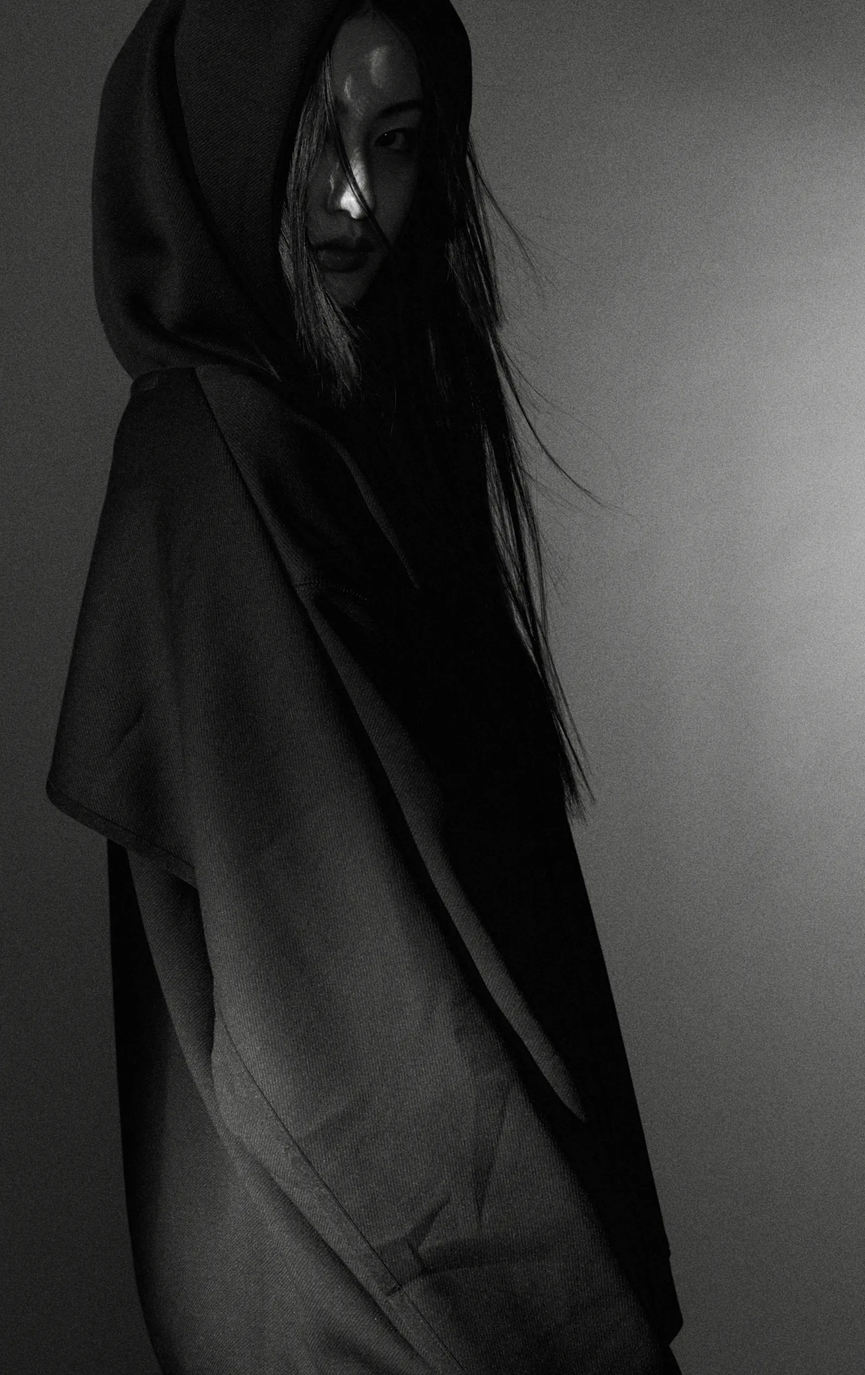
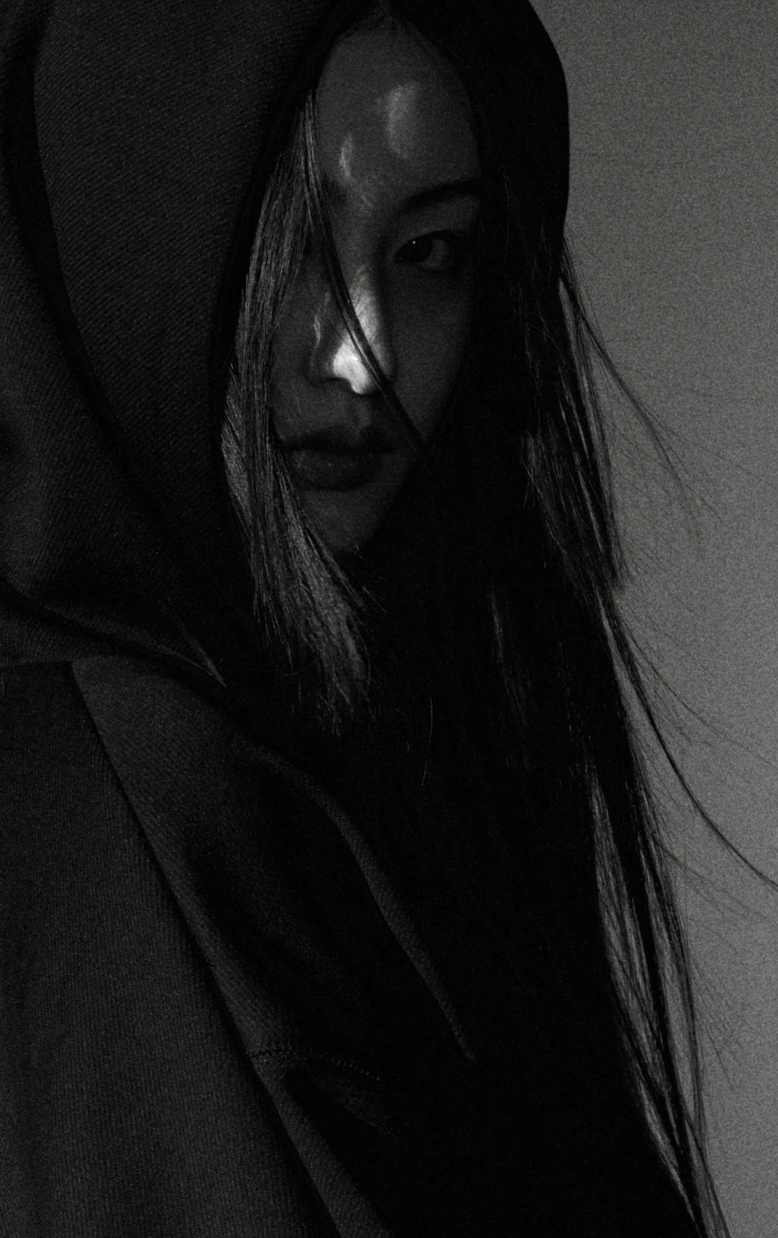
Key visual: tighter, face-led portrait crops for shots 3 and 5

diff --git a/jp/index.html b/jp/index.html
@@ -45,7 +45,7 @@
   <link rel="stylesheet" href="https://cdn.jsdelivr.net/gh/orioncactus/pretendard@v1.3.9/dist/web/static/pretendard.min.css" />
   <link rel="stylesheet" href="https://fonts.googleapis.com/css2?family=Noto+Sans+JP:wght@400&display=swap" />
   <link rel="stylesheet" href="https://cdn.jsdelivr.net/gh/orioncactus/pretendard@v1.3.9/dist/web/static/pretendard-jp.min.css" />
-  <link rel="stylesheet" href="../style.css?v=20261124134933" />
+  <link rel="stylesheet" href="../style.css?v=20261124135129" />
   <script type="importmap">{ "imports": { "three": "https://unpkg.com/three@0.160.0/build/three.module.min.js" } }</script>
   <script>
     // The intro plays until it has been seen through once in this browsing
@@ -133,9 +133,9 @@
         <div class="kv__slides" aria-hidden="true">
           <picture><source media="(max-aspect-ratio: 1/1)" srcset="../img/kv-slide-1-v@1x.webp 900w, ../img/kv-slide-1-v@2x.webp 1600w" sizes="100vw" /><img src="../img/kv-slide-1@2x.webp" srcset="../img/kv-slide-1@1x.webp 1440w, ../img/kv-slide-1@2x.webp 2400w" sizes="100vw" width="2400" height="1650" alt="" class="kv__slide" style="--x:55%" fetchpriority="high" /></picture>
           <picture><source media="(max-aspect-ratio: 1/1)" data-srcset="../img/kv-slide-2-v@1x.webp 900w, ../img/kv-slide-2-v@2x.webp 1600w" sizes="100vw" /><img data-src="../img/kv-slide-2@2x.webp" data-srcset="../img/kv-slide-2@1x.webp 1440w, ../img/kv-slide-2@2x.webp 2400w" sizes="100vw" width="2400" height="1650" alt="" class="kv__slide" style="--x:62%" /></picture>
-          <picture><source media="(max-aspect-ratio: 1/1)" data-srcset="../img/kv-slide-3-v@1x.webp 900w, ../img/kv-slide-3-v@2x.webp 1600w" sizes="100vw" /><img data-src="../img/kv-slide-3@2x.webp" data-srcset="../img/kv-slide-3@1x.webp 1440w, ../img/kv-slide-3@2x.webp 2400w" sizes="100vw" width="2400" height="1650" alt="" class="kv__slide" style="--x:40%" /></picture>
+          <picture><source media="(max-aspect-ratio: 1/1)" data-srcset="../img/kv-slide-3-v@1x.webp 900w, ../img/kv-slide-3-v@2x.webp 1440w" sizes="100vw" /><img data-src="../img/kv-slide-3@2x.webp" data-srcset="../img/kv-slide-3@1x.webp 1440w, ../img/kv-slide-3@2x.webp 2400w" sizes="100vw" width="2400" height="1650" alt="" class="kv__slide" style="--x:40%" /></picture>
           <picture><source media="(max-aspect-ratio: 1/1)" data-srcset="../img/kv-slide-4-v@1x.webp 900w, ../img/kv-slide-4-v@2x.webp 1600w" sizes="100vw" /><img data-src="../img/kv-slide-4@2x.webp" data-srcset="../img/kv-slide-4@1x.webp 1440w, ../img/kv-slide-4@2x.webp 2400w" sizes="100vw" width="2400" height="1620" alt="" class="kv__slide" style="--x:50%;--y:0%;--vy:0%;--o:50% 0%" /></picture>
-          <picture><source media="(max-aspect-ratio: 1/1)" data-srcset="../img/kv-slide-5-v@1x.webp 900w, ../img/kv-slide-5-v@2x.webp 1600w" sizes="100vw" /><img data-src="../img/kv-slide-5@2x.webp" data-srcset="../img/kv-slide-5@1x.webp 1440w, ../img/kv-slide-5@2x.webp 2400w" sizes="100vw" width="2400" height="1650" alt="" class="kv__slide" style="--x:55%" /></picture>
+          <picture><source media="(max-aspect-ratio: 1/1)" data-srcset="../img/kv-slide-5-v@1x.webp 900w, ../img/kv-slide-5-v@2x.webp 1440w" sizes="100vw" /><img data-src="../img/kv-slide-5@2x.webp" data-srcset="../img/kv-slide-5@1x.webp 1440w, ../img/kv-slide-5@2x.webp 2400w" sizes="100vw" width="2400" height="1650" alt="" class="kv__slide" style="--x:55%" /></picture>
         </div>
       </div>
       <div class="kv__text">
@@ -315,7 +315,7 @@
   </main>
 
   <script src="https://cdn.jsdelivr.net/npm/lenis@1.3.26/dist/lenis.min.js"></script>
-  <script src="../main.js?v=20261124134933"></script>
-  <script type="module" src="../intro/intro.js?v=20261124134933" onerror="window.aansSkipIntro && window.aansSkipIntro()"></script>
+  <script src="../main.js?v=20261124135129"></script>
+  <script type="module" src="../intro/intro.js?v=20261124135129" onerror="window.aansSkipIntro && window.aansSkipIntro()"></script>
 </body>
 </html>

diff --git a/kr/index.html b/kr/index.html
@@ -43,7 +43,7 @@
   <link rel="preconnect" href="https://fonts.gstatic.com" crossorigin />
   <link rel="stylesheet" href="https://fonts.googleapis.com/css2?family=Oswald:wght@300;400;500&display=swap" />
   <link rel="stylesheet" href="https://cdn.jsdelivr.net/gh/orioncactus/pretendard@v1.3.9/dist/web/static/pretendard.min.css" />
-  <link rel="stylesheet" href="../style.css?v=20261124134933" />
+  <link rel="stylesheet" href="../style.css?v=20261124135129" />
   <script type="importmap">{ "imports": { "three": "https://unpkg.com/three@0.160.0/build/three.module.min.js" } }</script>
   <script>
     // The intro plays until it has been seen through once in this browsing
@@ -131,9 +131,9 @@
         <div class="kv__slides" aria-hidden="true">
           <picture><source media="(max-aspect-ratio: 1/1)" srcset="../img/kv-slide-1-v@1x.webp 900w, ../img/kv-slide-1-v@2x.webp 1600w" sizes="100vw" /><img src="../img/kv-slide-1@2x.webp" srcset="../img/kv-slide-1@1x.webp 1440w, ../img/kv-slide-1@2x.webp 2400w" sizes="100vw" width="2400" height="1650" alt="" class="kv__slide" style="--x:55%" fetchpriority="high" /></picture>
           <picture><source media="(max-aspect-ratio: 1/1)" data-srcset="../img/kv-slide-2-v@1x.webp 900w, ../img/kv-slide-2-v@2x.webp 1600w" sizes="100vw" /><img data-src="../img/kv-slide-2@2x.webp" data-srcset="../img/kv-slide-2@1x.webp 1440w, ../img/kv-slide-2@2x.webp 2400w" sizes="100vw" width="2400" height="1650" alt="" class="kv__slide" style="--x:62%" /></picture>
-          <picture><source media="(max-aspect-ratio: 1/1)" data-srcset="../img/kv-slide-3-v@1x.webp 900w, ../img/kv-slide-3-v@2x.webp 1600w" sizes="100vw" /><img data-src="../img/kv-slide-3@2x.webp" data-srcset="../img/kv-slide-3@1x.webp 1440w, ../img/kv-slide-3@2x.webp 2400w" sizes="100vw" width="2400" height="1650" alt="" class="kv__slide" style="--x:40%" /></picture>
+          <picture><source media="(max-aspect-ratio: 1/1)" data-srcset="../img/kv-slide-3-v@1x.webp 900w, ../img/kv-slide-3-v@2x.webp 1440w" sizes="100vw" /><img data-src="../img/kv-slide-3@2x.webp" data-srcset="../img/kv-slide-3@1x.webp 1440w, ../img/kv-slide-3@2x.webp 2400w" sizes="100vw" width="2400" height="1650" alt="" class="kv__slide" style="--x:40%" /></picture>
           <picture><source media="(max-aspect-ratio: 1/1)" data-srcset="../img/kv-slide-4-v@1x.webp 900w, ../img/kv-slide-4-v@2x.webp 1600w" sizes="100vw" /><img data-src="../img/kv-slide-4@2x.webp" data-srcset="../img/kv-slide-4@1x.webp 1440w, ../img/kv-slide-4@2x.webp 2400w" sizes="100vw" width="2400" height="1620" alt="" class="kv__slide" style="--x:50%;--y:0%;--vy:0%;--o:50% 0%" /></picture>
-          <picture><source media="(max-aspect-ratio: 1/1)" data-srcset="../img/kv-slide-5-v@1x.webp 900w, ../img/kv-slide-5-v@2x.webp 1600w" sizes="100vw" /><img data-src="../img/kv-slide-5@2x.webp" data-srcset="../img/kv-slide-5@1x.webp 1440w, ../img/kv-slide-5@2x.webp 2400w" sizes="100vw" width="2400" height="1650" alt="" class="kv__slide" style="--x:55%" /></picture>
+          <picture><source media="(max-aspect-ratio: 1/1)" data-srcset="../img/kv-slide-5-v@1x.webp 900w, ../img/kv-slide-5-v@2x.webp 1440w" sizes="100vw" /><img data-src="../img/kv-slide-5@2x.webp" data-srcset="../img/kv-slide-5@1x.webp 1440w, ../img/kv-slide-5@2x.webp 2400w" sizes="100vw" width="2400" height="1650" alt="" class="kv__slide" style="--x:55%" /></picture>
         </div>
       </div>
       <div class="kv__text">
@@ -311,7 +311,7 @@
   </main>
 
   <script src="https://cdn.jsdelivr.net/npm/lenis@1.3.26/dist/lenis.min.js"></script>
-  <script src="../main.js?v=20261124134933"></script>
-  <script type="module" src="../intro/intro.js?v=20261124134933" onerror="window.aansSkipIntro && window.aansSkipIntro()"></script>
+  <script src="../main.js?v=20261124135129"></script>
+  <script type="module" src="../intro/intro.js?v=20261124135129" onerror="window.aansSkipIntro && window.aansSkipIntro()"></script>
 </body>
 </html>

diff --git a/index.html b/index.html
@@ -44,7 +44,7 @@
   <link rel="stylesheet" href="https://fonts.googleapis.com/css2?family=Oswald:wght@300;400;500&display=swap" />
   <link rel="stylesheet" href="https://cdn.jsdelivr.net/gh/orioncactus/pretendard@v1.3.9/dist/web/static/pretendard.min.css" />
   <link rel="stylesheet" href="https://fonts.googleapis.com/css2?family=Inter:wght@400&display=swap" />
-  <link rel="stylesheet" href="style.css?v=20261124134933" />
+  <link rel="stylesheet" href="style.css?v=20261124135129" />
   <script type="importmap">{ "imports": { "three": "https://unpkg.com/three@0.160.0/build/three.module.min.js" } }</script>
   <script>
     // The intro plays until it has been seen through once in this browsing
@@ -132,9 +132,9 @@
         <div class="kv__slides" aria-hidden="true">
           <picture><source media="(max-aspect-ratio: 1/1)" srcset="img/kv-slide-1-v@1x.webp 900w, img/kv-slide-1-v@2x.webp 1600w" sizes="100vw" /><img src="img/kv-slide-1@2x.webp" srcset="img/kv-slide-1@1x.webp 1440w, img/kv-slide-1@2x.webp 2400w" sizes="100vw" width="2400" height="1650" alt="" class="kv__slide" style="--x:55%" fetchpriority="high" /></picture>
           <picture><source media="(max-aspect-ratio: 1/1)" data-srcset="img/kv-slide-2-v@1x.webp 900w, img/kv-slide-2-v@2x.webp 1600w" sizes="100vw" /><img data-src="img/kv-slide-2@2x.webp" data-srcset="img/kv-slide-2@1x.webp 1440w, img/kv-slide-2@2x.webp 2400w" sizes="100vw" width="2400" height="1650" alt="" class="kv__slide" style="--x:62%" /></picture>
-          <picture><source media="(max-aspect-ratio: 1/1)" data-srcset="img/kv-slide-3-v@1x.webp 900w, img/kv-slide-3-v@2x.webp 1600w" sizes="100vw" /><img data-src="img/kv-slide-3@2x.webp" data-srcset="img/kv-slide-3@1x.webp 1440w, img/kv-slide-3@2x.webp 2400w" sizes="100vw" width="2400" height="1650" alt="" class="kv__slide" style="--x:40%" /></picture>
+          <picture><source media="(max-aspect-ratio: 1/1)" data-srcset="img/kv-slide-3-v@1x.webp 900w, img/kv-slide-3-v@2x.webp 1440w" sizes="100vw" /><img data-src="img/kv-slide-3@2x.webp" data-srcset="img/kv-slide-3@1x.webp 1440w, img/kv-slide-3@2x.webp 2400w" sizes="100vw" width="2400" height="1650" alt="" class="kv__slide" style="--x:40%" /></picture>
           <picture><source media="(max-aspect-ratio: 1/1)" data-srcset="img/kv-slide-4-v@1x.webp 900w, img/kv-slide-4-v@2x.webp 1600w" sizes="100vw" /><img data-src="img/kv-slide-4@2x.webp" data-srcset="img/kv-slide-4@1x.webp 1440w, img/kv-slide-4@2x.webp 2400w" sizes="100vw" width="2400" height="1620" alt="" class="kv__slide" style="--x:50%;--y:0%;--vy:0%;--o:50% 0%" /></picture>
-          <picture><source media="(max-aspect-ratio: 1/1)" data-srcset="img/kv-slide-5-v@1x.webp 900w, img/kv-slide-5-v@2x.webp 1600w" sizes="100vw" /><img data-src="img/kv-slide-5@2x.webp" data-srcset="img/kv-slide-5@1x.webp 1440w, img/kv-slide-5@2x.webp 2400w" sizes="100vw" width="2400" height="1650" alt="" class="kv__slide" style="--x:55%" /></picture>
+          <picture><source media="(max-aspect-ratio: 1/1)" data-srcset="img/kv-slide-5-v@1x.webp 900w, img/kv-slide-5-v@2x.webp 1440w" sizes="100vw" /><img data-src="img/kv-slide-5@2x.webp" data-srcset="img/kv-slide-5@1x.webp 1440w, img/kv-slide-5@2x.webp 2400w" sizes="100vw" width="2400" height="1650" alt="" class="kv__slide" style="--x:55%" /></picture>
         </div>
       </div>
       <div class="kv__text">
@@ -312,7 +312,7 @@
   </main>
 
   <script src="https://cdn.jsdelivr.net/npm/lenis@1.3.26/dist/lenis.min.js"></script>
-  <script src="main.js?v=20261124134933"></script>
-  <script type="module" src="intro/intro.js?v=20261124134933" onerror="window.aansSkipIntro && window.aansSkipIntro()"></script>
+  <script src="main.js?v=20261124135129"></script>
+  <script type="module" src="intro/intro.js?v=20261124135129" onerror="window.aansSkipIntro && window.aansSkipIntro()"></script>
 </body>
 </html>

diff --git a/intro/intro.js b/intro/intro.js
@@ -1,6 +1,6 @@
 import * as THREE from "three";
-import { VERTEX_SHADER, FRAGMENT_SHADER } from "./shaders.js?v=20261124134933";
-import { loadLogoTexture } from "./logoTexture.js?v=20261124134933";
+import { VERTEX_SHADER, FRAGMENT_SHADER } from "./shaders.js?v=20261124135129";
+import { loadLogoTexture } from "./logoTexture.js?v=20261124135129";
 
 // Intro (Figma A_Intro, 2597:1545), layered over the top of the home page.
 //

diff --git a/intro/logoTexture.js b/intro/logoTexture.js
@@ -1,5 +1,5 @@
 import * as THREE from "three";
-import { signedDistanceField } from "./sdf.js?v=20261124134933";
+import { signedDistanceField } from "./sdf.js?v=20261124135129";
 
 // Rasterizes the logo's SVG path(s) FILLED onto an offscreen canvas, then
 // bakes a real signed distance field from that mask (see sdf.js). The shader
